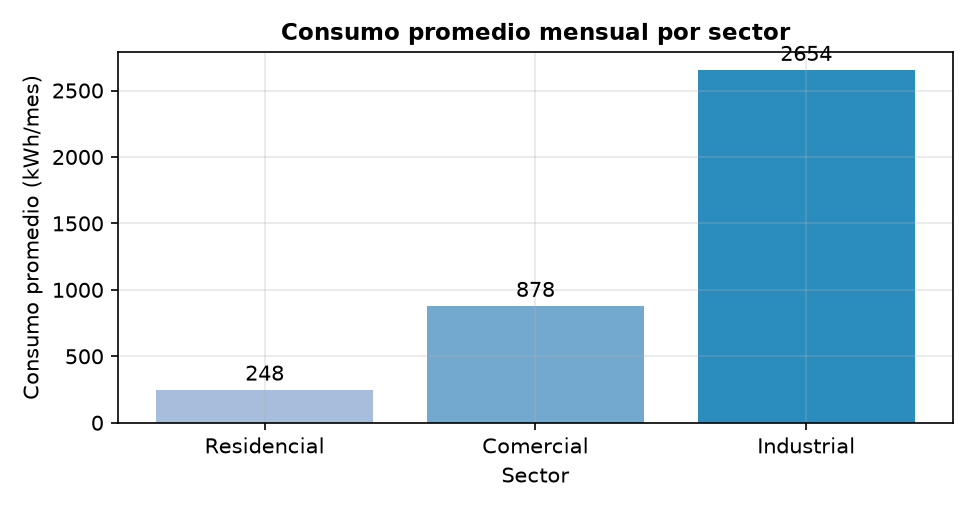
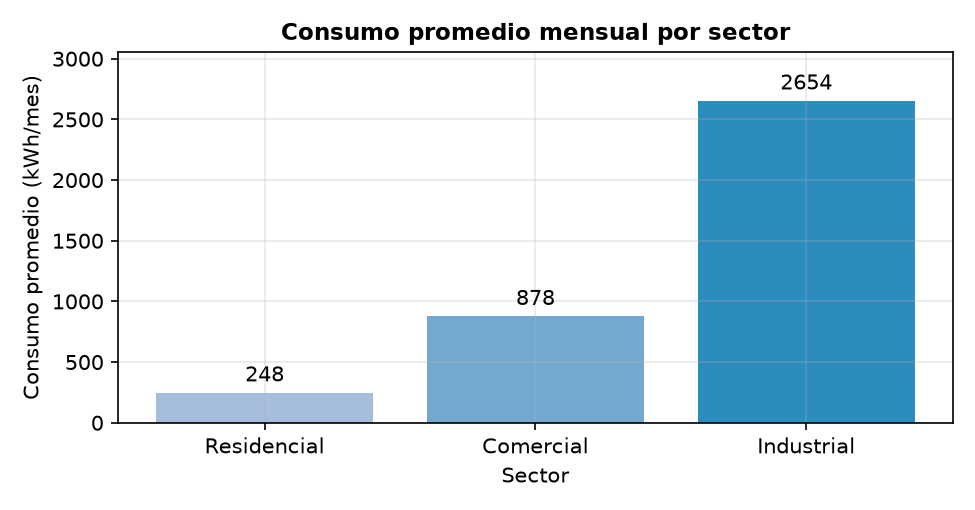
fix: tag does not corresponding in over grid

diff --git a/utils/codes/visualizations.py b/utils/codes/visualizations.py
@@ -64,7 +64,8 @@ fig.tight_layout(); fig.savefig(GOOD_DIR / "hist_consumption.png"); plt.close(fi
 means = df.groupby("sector")["consumo_kwh"].mean().sort_values()
 fig, ax = plt.subplots(figsize=(6.5, 3.4))
 bars = ax.bar(means.index, means.values, color=["#a6bddb", "#74a9cf", "#2b8cbe"])
-ax.bar_label(bars, fmt="%.0f", padding=2)
+ax.bar_label(bars, fmt="%.0f", padding=3)
+ax.set_ylim(0, means.max() * 1.15)
 ax.set_title("Consumo promedio mensual por sector")
 ax.set_xlabel("Sector"); ax.set_ylabel("Consumo promedio (kWh/mes)")
 fig.tight_layout(); fig.savefig(GOOD_DIR / "bar_mean_consumption_by_sector.png"); plt.close(fig)
